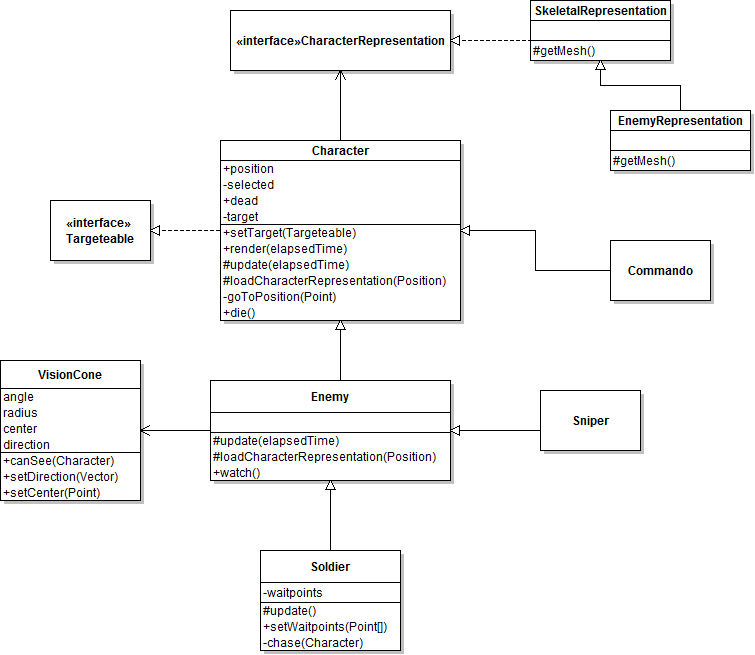
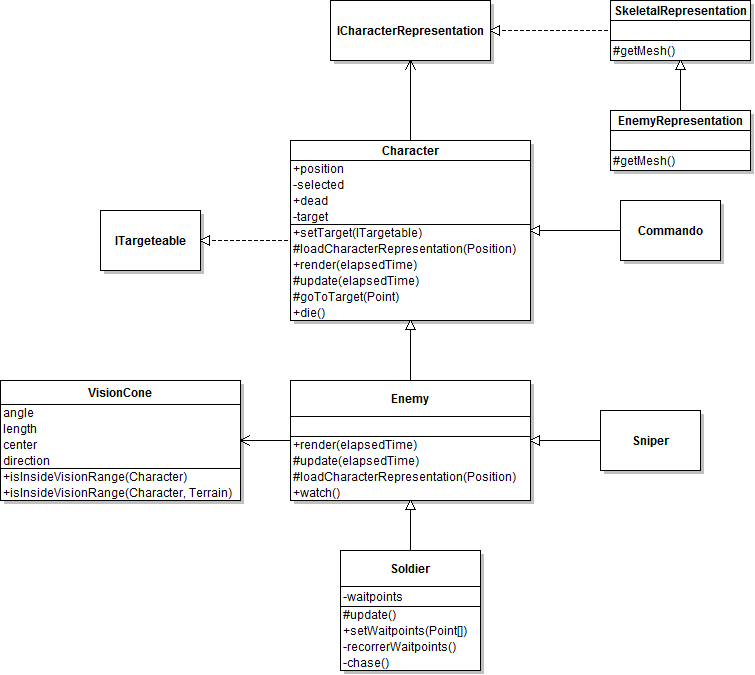
Vector direccion en cono de vision

diff --git a/ValePorUnNombreGeek/src/commandos/cono/Cono.cs b/ValePorUnNombreGeek/src/commandos/cono/Cono.cs
@@ -22,7 +22,7 @@ namespace AlumnoEjemplos.ValePorUnNombreGeek.src.commandos.cono
         protected Vector3[] circunferencia;
        
         CustomVertex.PositionColored[] vertices;
-        protected float angle, radius;
+        protected float angle, length;
         protected int triangles;
         private bool autoTransformEnable;
       
@@ -76,7 +76,7 @@ namespace AlumnoEjemplos.ValePorUnNombreGeek.src.commandos.cono
 
 
 
-        public float Radius { get { return radius; } set { radius = value; } }
+        public float Length { get { return length; } set { length = value; } }
 
         public float Angle { get { return angle; } set { angle = value; } }
 
@@ -95,7 +95,7 @@ namespace AlumnoEjemplos.ValePorUnNombreGeek.src.commandos.cono
         {
            
          
-            this.radius = radius;
+            this.length = radius;
             this.angle = angle;
             this.triangles = triangles;
 
@@ -110,15 +110,15 @@ namespace AlumnoEjemplos.ValePorUnNombreGeek.src.commandos.cono
             
         }
 
-        public Cono(Vector3 vertex, float radius, float angle)
+        public Cono(Vector3 vertex, float length, float angle)
         {
-            config(vertex, radius, angle, DEFAULT_TRIANGLES);
+            config(vertex, length, angle, DEFAULT_TRIANGLES);
 
 
         }
 
-        public Cono(Vector3 vertex, float radius, float angle, int triangles) {
-            config(vertex, radius, angle,triangles);
+        public Cono(Vector3 vertex, float length, float angle, int triangles) {
+            config(vertex, length, angle,triangles);
            
         }
 
@@ -136,7 +136,7 @@ namespace AlumnoEjemplos.ValePorUnNombreGeek.src.commandos.cono
                    
             //La circunferencia tiene un punto menos porque no contiene al vertice
 
-            crearCircunferencia(radius*FastMath.Atan(FastMath.ToRad(angle)),cantPuntos-1);
+            crearCircunferencia(length*FastMath.Atan(FastMath.ToRad(angle)),cantPuntos-1);
 
             crearTriangulos();
 
@@ -199,7 +199,7 @@ namespace AlumnoEjemplos.ValePorUnNombreGeek.src.commandos.cono
               circunferencia[i] = new Vector3(
                         cradius*FastMath.Cos(theta),
                         cradius*FastMath.Sin(theta),
-                        -radius
+                        -length
                    );
            }
 

diff --git a/ValePorUnNombreGeek/src/commandos/cono/ConoDeVision.cs b/ValePorUnNombreGeek/src/commandos/cono/ConoDeVision.cs
@@ -1,25 +1,26 @@
-using System;
-using System.Collections.Generic;
-using System.Linq;
-using System.Text;
-using Microsoft.DirectX;
+using Microsoft.DirectX;
 using TgcViewer.Utils.TgcGeometry;
-using TgcViewer;
 using AlumnoEjemplos.ValePorUnNombreGeek.src.commandos.character.characterRepresentation;
+using AlumnoEjemplos.ValePorUnNombreGeek.src.commandos.character;
+using AlumnoEjemplos.ValePorUnNombreGeek.src.commandos.terrain;
 
 namespace AlumnoEjemplos.ValePorUnNombreGeek.src.commandos.cono
 {
     class ConoDeVision : Cono
     {
-        float radiusB;
-        public float RadiusB { get{return radiusB;} set{radiusB=value;}}
-        ICharacterRepresentation rep;
+        protected ICharacterRepresentation rep;
+        public Vector3 Direction
+        {
+            get{ return Vector3.Normalize( Vector3.TransformCoordinate( new Vector3(0, 1, 0), this.Transform));}
+           
+        }
+       
 
-        public ConoDeVision(ICharacterRepresentation rep, float radius, float angle)
-            : base(rep.Position+rep.getEyeLevel(), radius, angle)
+        public ConoDeVision(ICharacterRepresentation rep, float lenght, float angle)
+            : base(rep.Position+rep.getEyeLevel(), lenght, angle)
         {
             this.rep = rep;
-            this.AutoTransformEnable = false;
+            this.AutoTransformEnable = false;                          
         }
 
         public override void render()
@@ -28,6 +29,7 @@ namespace AlumnoEjemplos.ValePorUnNombreGeek.src.commandos.cono
             base.render();
         }
 
+     
         public override void renderWireframe()
         {
             this.Transform = rep.Transform * Matrix.Translation(rep.getEyeLevel());
@@ -40,6 +42,15 @@ namespace AlumnoEjemplos.ValePorUnNombreGeek.src.commandos.cono
             return false;
         }
 
+        public bool isInsideVisionRange(Character target)
+        {
+            return false;
+        }
+
+         public bool isInsideVisionRange(Character target, Terrain terrain)
+        {
+            return false;
+        }
         /* Para crear elipse en vez de circunferencia. Se ve mejor pero es mas dificil calcular colision.
         protected override void crearCircunferencia(float radiusA, int cantPuntos)
         {

diff --git a/ValePorUnNombreGeek/src/commandos/character/Enemy.cs b/ValePorUnNombreGeek/src/commandos/character/Enemy.cs
@@ -1,15 +1,6 @@
-using System;
-using System.Collections.Generic;
-using System.Linq;
-using System.Text;
-using TgcViewer.Utils.TgcSkeletalAnimation;
-using Microsoft.DirectX.Direct3D;
-using TgcViewer;
-using TgcViewer.Utils.TgcSceneLoader;
-using TgcViewer.Utils.TgcGeometry;
+using TgcViewer.Utils.TgcGeometry;
 using Microsoft.DirectX;
 using AlumnoEjemplos.ValePorUnNombreGeek.src.commandos.cono;
-using AlumnoEjemplos.ValePorUnNombreGeek.src.commandos.target;
 using AlumnoEjemplos.ValePorUnNombreGeek.src.commandos.character.characterRepresentation;
 using AlumnoEjemplos.ValePorUnNombreGeek.src.commandos.terrain;
 
@@ -21,11 +12,10 @@ namespace AlumnoEjemplos.ValePorUnNombreGeek.src.commandos.character
         private ConoDeVision vision;
 
      
-        private float alturaCabeza;
         private const float DEFAULT_VISION_RADIUS = 400;
         private const float DEFAULT_VISION_ANGLE = 60;
         public float VisionAngle { get { return vision.Angle; } set { vision.Angle = value; } }
-        public float VisionRadius { get { return vision.Radius; } set { vision.Radius = value; } }
+        public float VisionRadius { get { return vision.Length; } set { vision.Length = value; } }
         public bool ConeEnabled { get { return vision.Enabled; } set { vision.Enabled = value; } }
 
         public Enemy(Vector3 _position, Terrain _terrain)

diff --git a/ValePorUnNombreGeek/src/pruebas/CrearCono.cs b/ValePorUnNombreGeek/src/pruebas/CrearCono.cs
@@ -38,7 +38,7 @@ namespace AlumnoEjemplos.ValePorUnNombreGeek.src.pruebas
             cono = new Cono(new Vector3(0,0,0));
             
             //Modifiers
-            GuiController.Instance.Modifiers.addFloat("Radius", 0, 10, 5);
+            GuiController.Instance.Modifiers.addFloat("Length", 0, 10, 5);
             GuiController.Instance.Modifiers.addFloat("Angle", 0, 180, 30);
             GuiController.Instance.Modifiers.addInt("Triangles", 4, 100, 6);
 
@@ -47,7 +47,7 @@ namespace AlumnoEjemplos.ValePorUnNombreGeek.src.pruebas
 
         public override void render(float elapsedTime)
         {
-            cono.Radius = (float)GuiController.Instance.Modifiers.getValue("Radius");
+            cono.Length = (float)GuiController.Instance.Modifiers.getValue("Length");
             cono.Angle = (float)GuiController.Instance.Modifiers.getValue("Angle");
             cono.Triangles = (int)GuiController.Instance.Modifiers.getValue("Triangles");
            
